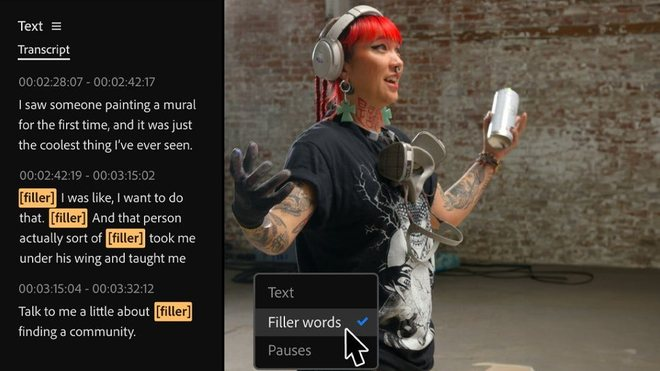
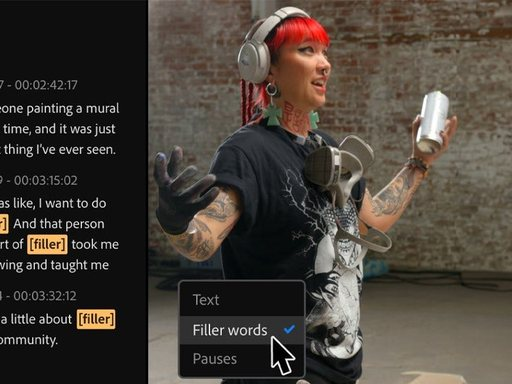
Grid thumbnails to 4:3 (128x96) so more of each interface shot is visible

diff --git a/MPIP26-Email-03-AITrack-DeepDive.html b/MPIP26-Email-03-AITrack-DeepDive.html
@@ -198,7 +198,7 @@ isEnabledForEmailV3Rendering: true
                 <div style="margin-top:6px; font-family:'Source Sans 3',Arial,sans-serif; font-weight:350; font-size:12.5px; color:#8b90a5;">Speaker: Luisa Winters</div>
                 <div class="sdesc" style="margin-top:5px; font-family:'Source Sans 3',Arial,sans-serif; font-weight:350; font-size:12.5px; line-height:1.45; color:#CDD5E1; text-wrap:pretty;">Search Premiere&rsquo;s Media Intelligence and the Premiere AI Assistant by visual content, dialogue, sound, metadata, and similarity, then organize what you find into an edit-ready project.</div>
               </td>
-              <td class="srow-img" width="142" style="padding-right:14px;"><img src="https://syvonnek.github.io/mpip26-email-preview/assets/session-d1-96.jpg" width="128" height="72" alt="Find the Story in the Footage" style="display:block; width:128px; height:72px; border-radius:7px; border:1px solid rgba(255,255,255,.12);"></td>
+              <td class="srow-img" width="146" style="padding-right:14px;"><img src="https://syvonnek.github.io/mpip26-email-preview/assets/session-d1-96.jpg" width="128" height="96" alt="Find the Story in the Footage" style="display:block; width:128px; height:96px; border-radius:7px; border:1px solid rgba(255,255,255,.12);"></td>
             </tr></table>
           </td></tr>
 
@@ -211,7 +211,7 @@ isEnabledForEmailV3Rendering: true
                 <div class="srow-title" style="margin-top:6px; font-family:'Source Sans 3',Arial,sans-serif; font-weight:700; font-size:18px; line-height:1.25; letter-spacing:-.01em; color:#F8FAFC;">AI as Your Assistant Editor</div>
                 <div class="sdesc" style="margin-top:6px; font-family:'Source Sans 3',Arial,sans-serif; font-weight:350; font-size:12.5px; line-height:1.45; color:#CDD5E1; text-wrap:pretty;">Identify and compare alternate takes, use Text-Based Editing to build selects and stringouts, and start assemblies faster. AI organizes the choices &mdash; you choose the performance.</div>
               </td>
-              <td class="srow-img" width="142" style="padding-right:14px;"><img src="https://syvonnek.github.io/mpip26-email-preview/assets/session-d2-96.jpg" width="128" height="72" alt="AI as Your Assistant Editor" style="display:block; width:128px; height:72px; border-radius:7px; border:1px solid rgba(255,255,255,.12);"></td>
+              <td class="srow-img" width="146" style="padding-right:14px;"><img src="https://syvonnek.github.io/mpip26-email-preview/assets/session-d2-96.jpg" width="128" height="96" alt="AI as Your Assistant Editor" style="display:block; width:128px; height:96px; border-radius:7px; border:1px solid rgba(255,255,255,.12);"></td>
             </tr></table>
           </td></tr>
 
@@ -225,7 +225,7 @@ isEnabledForEmailV3Rendering: true
                 <div style="margin-top:6px; font-family:'Source Sans 3',Arial,sans-serif; font-weight:350; font-size:12.5px; color:#8b90a5;">Speaker: Eran Stern</div>
                 <div class="sdesc" style="margin-top:5px; font-family:'Source Sans 3',Arial,sans-serif; font-weight:350; font-size:12.5px; line-height:1.45; color:#CDD5E1; text-wrap:pretty;">Fix gaps with Generative Extend and Generative Media, find missing B-roll and inserts, match references, and use Object Masking and tracking &mdash; plus Content Credentials and when not to generate.</div>
               </td>
-              <td class="srow-img" width="142" style="padding-right:14px;"><img src="https://syvonnek.github.io/mpip26-email-preview/assets/session-d3-96.jpg" width="128" height="72" alt="When the Edit Is Missing Something" style="display:block; width:128px; height:72px; border-radius:7px; border:1px solid rgba(255,255,255,.12);"></td>
+              <td class="srow-img" width="146" style="padding-right:14px;"><img src="https://syvonnek.github.io/mpip26-email-preview/assets/session-d3-96.jpg" width="128" height="96" alt="When the Edit Is Missing Something" style="display:block; width:128px; height:96px; border-radius:7px; border:1px solid rgba(255,255,255,.12);"></td>
             </tr></table>
           </td></tr>
 
@@ -239,7 +239,7 @@ isEnabledForEmailV3Rendering: true
                 <div class="srow-title" style="margin-top:6px; font-family:'Source Sans 3',Arial,sans-serif; font-weight:700; font-size:18px; line-height:1.25; letter-spacing:-.01em; color:#F8FAFC;">From Rough Audio to Finished Sound</div>
                 <div class="sdesc" style="margin-top:6px; font-family:'Source Sans 3',Arial,sans-serif; font-weight:350; font-size:12.5px; line-height:1.45; color:#CDD5E1; text-wrap:pretty;">Clean up dialogue with Enhance Speech, generate sound effects and soundtracks, and mix faster with Remix and Auto Ducking.</div>
               </td>
-              <td class="srow-img" width="142" style="padding-right:14px;"><img src="https://syvonnek.github.io/mpip26-email-preview/assets/session-d4-96.jpg" width="128" height="72" alt="From Rough Audio to Finished Sound" style="display:block; width:128px; height:72px; border-radius:7px; border:1px solid rgba(255,255,255,.12);"></td>
+              <td class="srow-img" width="146" style="padding-right:14px;"><img src="https://syvonnek.github.io/mpip26-email-preview/assets/session-d4-96.jpg" width="128" height="96" alt="From Rough Audio to Finished Sound" style="display:block; width:128px; height:96px; border-radius:7px; border:1px solid rgba(255,255,255,.12);"></td>
             </tr></table>
           </td></tr>
 
@@ -253,7 +253,7 @@ isEnabledForEmailV3Rendering: true
                 <div class="srow-title" style="margin-top:6px; font-family:'Source Sans 3',Arial,sans-serif; font-weight:700; font-size:18px; line-height:1.25; letter-spacing:-.01em; color:#F8FAFC;">Visualize the Story with Firefly Boards</div>
                 <div class="sdesc" style="margin-top:6px; font-family:'Source Sans 3',Arial,sans-serif; font-weight:350; font-size:12.5px; line-height:1.45; color:#CDD5E1; text-wrap:pretty;">Build moodboards and storyboard-style frames for composition, locations, lighting, and wardrobe &mdash; and get the whole team aligned on the visual direction before you shoot.</div>
               </td>
-              <td class="srow-img" width="142" style="padding-right:14px;"><img src="https://syvonnek.github.io/mpip26-email-preview/assets/session-d5-96.jpg" width="128" height="72" alt="Visualize the Story with Firefly Boards" style="display:block; width:128px; height:72px; border-radius:7px; border:1px solid rgba(255,255,255,.12);"></td>
+              <td class="srow-img" width="146" style="padding-right:14px;"><img src="https://syvonnek.github.io/mpip26-email-preview/assets/session-d5-96.jpg" width="128" height="96" alt="Visualize the Story with Firefly Boards" style="display:block; width:128px; height:96px; border-radius:7px; border:1px solid rgba(255,255,255,.12);"></td>
             </tr></table>
           </td></tr>
 
@@ -267,7 +267,7 @@ isEnabledForEmailV3Rendering: true
                 <div style="margin-top:6px; font-family:'Source Sans 3',Arial,sans-serif; font-weight:350; font-size:12.5px; color:#8b90a5;">Speaker: To be announced</div>
                 <div class="sdesc" style="margin-top:5px; font-family:'Source Sans 3',Arial,sans-serif; font-weight:350; font-size:12.5px; line-height:1.45; color:#CDD5E1; text-wrap:pretty;">A closing conversation on creative control, ethics, transparency, and the decisions that stay with the artist.</div>
               </td>
-              <td class="srow-img" width="142" style="padding-right:14px;"><img src="https://syvonnek.github.io/mpip26-email-preview/assets/session-d6-96.jpg" width="128" height="72" alt="AI, Creativity &amp; the Decisions That Stay Human" style="display:block; width:128px; height:72px; border-radius:7px; border:1px solid rgba(255,255,255,.12);"></td>
+              <td class="srow-img" width="146" style="padding-right:14px;"><img src="https://syvonnek.github.io/mpip26-email-preview/assets/session-d6-96.jpg" width="128" height="96" alt="AI, Creativity &amp; the Decisions That Stay Human" style="display:block; width:128px; height:96px; border-radius:7px; border:1px solid rgba(255,255,255,.12);"></td>
             </tr></table>
           </td></tr>
 

diff --git a/MPIP26-Email-02-ColorMode-DeepDive.html b/MPIP26-Email-02-ColorMode-DeepDive.html
@@ -199,7 +199,7 @@ isEnabledForEmailV3Rendering: true
                 <div style="margin-top:6px; font-family:'Source Sans 3',Arial,sans-serif; font-weight:350; font-size:12.5px; color:#8b90a5;">Speaker: Luisa Winters</div>
                 <div class="sdesc" style="margin-top:5px; font-family:'Source Sans 3',Arial,sans-serif; font-weight:350; font-size:12.5px; line-height:1.45; color:#CDD5E1; text-wrap:pretty;">Establish the correct project, sequence, clip, monitoring, SDR/HDR, Log, wide-gamut, and tone-mapping pipeline.</div>
               </td>
-              <td class="srow-img" width="142" style="padding-right:14px;"><img src="https://syvonnek.github.io/mpip26-email-preview/assets/session-s1-96.jpg" width="128" height="72" alt="Color Mode Foundations & Color Management" style="display:block; width:128px; height:72px; border-radius:7px; border:1px solid rgba(255,255,255,.12);"></td>
+              <td class="srow-img" width="146" style="padding-right:14px;"><img src="https://syvonnek.github.io/mpip26-email-preview/assets/session-s1-96.jpg" width="128" height="96" alt="Color Mode Foundations & Color Management" style="display:block; width:128px; height:96px; border-radius:7px; border:1px solid rgba(255,255,255,.12);"></td>
             </tr></table>
           </td></tr>
 
@@ -213,7 +213,7 @@ isEnabledForEmailV3Rendering: true
                 <div style="margin-top:6px; font-family:'Source Sans 3',Arial,sans-serif; font-weight:350; font-size:12.5px; color:#8b90a5;">Speaker: Eran Stern</div>
                 <div class="sdesc" style="margin-top:5px; font-family:'Source Sans 3',Arial,sans-serif; font-weight:350; font-size:12.5px; line-height:1.45; color:#CDD5E1; text-wrap:pretty;">Correct exposure, contrast, white balance, and saturation, then match cameras, scenes, interview angles, and skin tones.</div>
               </td>
-              <td class="srow-img" width="142" style="padding-right:14px;"><img src="https://syvonnek.github.io/mpip26-email-preview/assets/session-s2-96.jpg" width="128" height="72" alt="Primary Correction & Color Matching" style="display:block; width:128px; height:72px; border-radius:7px; border:1px solid rgba(255,255,255,.12);"></td>
+              <td class="srow-img" width="146" style="padding-right:14px;"><img src="https://syvonnek.github.io/mpip26-email-preview/assets/session-s2-96.jpg" width="128" height="96" alt="Primary Correction & Color Matching" style="display:block; width:128px; height:96px; border-radius:7px; border:1px solid rgba(255,255,255,.12);"></td>
             </tr></table>
           </td></tr>
 
@@ -227,7 +227,7 @@ isEnabledForEmailV3Rendering: true
                 <div style="margin-top:6px; font-family:'Source Sans 3',Arial,sans-serif; font-weight:350; font-size:12.5px; color:#8b90a5;">Speaker: Luisa Winters</div>
                 <div class="sdesc" style="margin-top:5px; font-family:'Source Sans 3',Arial,sans-serif; font-weight:350; font-size:12.5px; line-height:1.45; color:#CDD5E1; text-wrap:pretty;">Use Hue Isolation, hue/saturation/luminance controls, masks, tracking, Styles, and LUTs for targeted corrections and creative looks.</div>
               </td>
-              <td class="srow-img" width="142" style="padding-right:14px;"><img src="https://syvonnek.github.io/mpip26-email-preview/assets/session-s3-96.jpg" width="128" height="72" alt="Secondaries & Creative Grading" style="display:block; width:128px; height:72px; border-radius:7px; border:1px solid rgba(255,255,255,.12);"></td>
+              <td class="srow-img" width="146" style="padding-right:14px;"><img src="https://syvonnek.github.io/mpip26-email-preview/assets/session-s3-96.jpg" width="128" height="96" alt="Secondaries & Creative Grading" style="display:block; width:128px; height:96px; border-radius:7px; border:1px solid rgba(255,255,255,.12);"></td>
             </tr></table>
           </td></tr>
 
@@ -241,7 +241,7 @@ isEnabledForEmailV3Rendering: true
                 <div style="margin-top:6px; font-family:'Source Sans 3',Arial,sans-serif; font-weight:350; font-size:12.5px; color:#8b90a5;">Speaker: Eran Stern</div>
                 <div class="sdesc" style="margin-top:5px; font-family:'Source Sans 3',Arial,sans-serif; font-weight:350; font-size:12.5px; line-height:1.45; color:#CDD5E1; text-wrap:pretty;">Organize related shots into Custom Groups and decide whether corrections belong at the clip, group, or sequence level.</div>
               </td>
-              <td class="srow-img" width="142" style="padding-right:14px;"><img src="https://syvonnek.github.io/mpip26-email-preview/assets/session-s4-96.jpg" width="128" height="72" alt="Grade Management at Scale" style="display:block; width:128px; height:72px; border-radius:7px; border:1px solid rgba(255,255,255,.12);"></td>
+              <td class="srow-img" width="146" style="padding-right:14px;"><img src="https://syvonnek.github.io/mpip26-email-preview/assets/session-s4-96.jpg" width="128" height="96" alt="Grade Management at Scale" style="display:block; width:128px; height:96px; border-radius:7px; border:1px solid rgba(255,255,255,.12);"></td>
             </tr></table>
           </td></tr>
 
@@ -255,7 +255,7 @@ isEnabledForEmailV3Rendering: true
                 <div style="margin-top:6px; font-family:'Source Sans 3',Arial,sans-serif; font-weight:350; font-size:12.5px; color:#8b90a5;">Speaker: Luisa Winters</div>
                 <div class="sdesc" style="margin-top:5px; font-family:'Source Sans 3',Arial,sans-serif; font-weight:350; font-size:12.5px; line-height:1.45; color:#CDD5E1; text-wrap:pretty;">Preserve and adjust legacy Lumetri grades while avoiding confusing hybrid workflows.</div>
               </td>
-              <td class="srow-img" width="142" style="padding-right:14px;"><img src="https://syvonnek.github.io/mpip26-email-preview/assets/session-s5-96.jpg" width="128" height="72" alt="Transition & Compatibility: Color Mode & Lumetri" style="display:block; width:128px; height:72px; border-radius:7px; border:1px solid rgba(255,255,255,.12);"></td>
+              <td class="srow-img" width="146" style="padding-right:14px;"><img src="https://syvonnek.github.io/mpip26-email-preview/assets/session-s5-96.jpg" width="128" height="96" alt="Transition & Compatibility: Color Mode & Lumetri" style="display:block; width:128px; height:96px; border-radius:7px; border:1px solid rgba(255,255,255,.12);"></td>
             </tr></table>
           </td></tr>
 
@@ -269,7 +269,7 @@ isEnabledForEmailV3Rendering: true
                 <div style="margin-top:6px; font-family:'Source Sans 3',Arial,sans-serif; font-weight:350; font-size:12.5px; color:#8b90a5;">Moderator: Eran Stern</div>
                 <div class="sdesc" style="margin-top:5px; font-family:'Source Sans 3',Arial,sans-serif; font-weight:350; font-size:12.5px; line-height:1.45; color:#CDD5E1; text-wrap:pretty;">Bring real-world Color Mode and grading workflow questions to Alexis.</div>
               </td>
-              <td class="srow-img" width="142" style="padding-right:14px;"><img src="https://syvonnek.github.io/mpip26-email-preview/assets/session-s6-96.jpg" width="128" height="72" alt="Open Q&A with Alexis Van Hurkman" style="display:block; width:128px; height:72px; border-radius:7px; border:1px solid rgba(255,255,255,.12);"></td>
+              <td class="srow-img" width="146" style="padding-right:14px;"><img src="https://syvonnek.github.io/mpip26-email-preview/assets/session-s6-96.jpg" width="128" height="96" alt="Open Q&A with Alexis Van Hurkman" style="display:block; width:128px; height:96px; border-radius:7px; border:1px solid rgba(255,255,255,.12);"></td>
             </tr></table>
           </td></tr>
 
